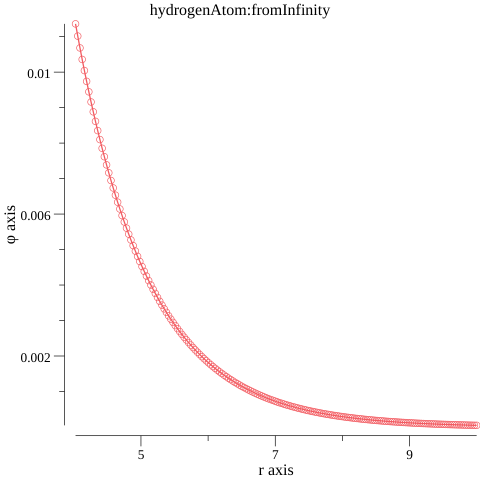
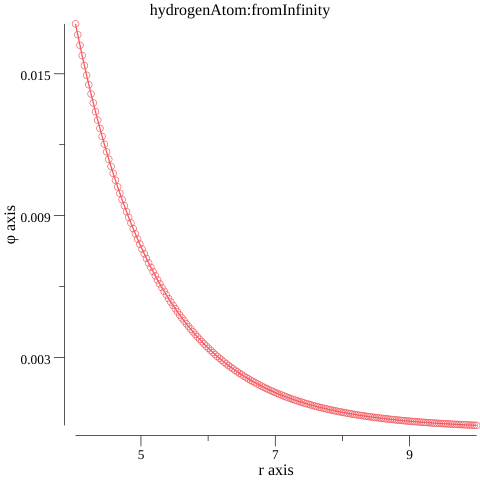
Wronskians

diff --git a/HarmonicOscillator2.go b/HarmonicOscillator2.go
@@ -17,6 +17,11 @@ type EquationInformation struct{
 	InfinityEquation func(x float64, p float64) float64
 	InfinityDifferentalEquation func(x float64, p float64) float64
 }
+type Wronskian struct {
+	targetY, targetdY, targetYfromInfinity, targetdYfromInfinity float64
+}
+
+type Wronskians []Wronskian
 
 func main() {
 	targetEquation := EquationInformation{
@@ -35,6 +40,28 @@ func main() {
 	fmt.Printf("%+v\n", targetEquation)
 	targetEquation.SecondOrderRungeKuttaMethod(1, true, true)
 	targetEquation.SecondOrderRungeKuttaMethod(1, false, true)
+
+	var p = []float64{0.8, 0.9}
+	var wronskians Wronskians
+	for i := 0; i < 30; i++ {
+		targetEquation.SetInitialValues(p[i])
+		wronskian := Wronskian{}
+		wronskian.targetY, wronskian.targetdY = targetEquation.SecondOrderRungeKuttaMethod(p[i], true, false)
+		wronskian.targetYfromInfinity, wronskian.targetdYfromInfinity = targetEquation.SecondOrderRungeKuttaMethod(p[i], false, false)
+		wronskians = append(wronskians, wronskian)
+		if i == 0 { continue }
+		beforeWronskian := wronskians[i - 1].Determinant()
+		currentWronskian := wronskians[i].Determinant()
+		p = append(p, (currentWronskian * p[i] - beforeWronskian * p[i - 1]) / (beforeWronskian - currentWronskian))
+		if ((p[i + 1] - p[i])/p[i]) < math.Pow(10, -5) {
+			targetEquation.SecondOrderRungeKuttaMethod(p[i], true, true)
+			targetEquation.SecondOrderRungeKuttaMethod(p[i], false, true)
+			fmt.Println(p)
+			break
+		}
+	}
+
+
 }
 
 func defineSecondOrderDifferentalEquation(x float64, y float64, dy float64, p float64, l float64) float64 {
@@ -46,8 +73,7 @@ func defineInitialEquation(x float64, l float64) float64 {
 }
 
 func defineInitialDifferntalEquation(x float64, l float64) float64 {
-	return 1 //l = 1
-	//(l + 1) * math.Pow(x, l)
+	return (l + 1) * math.Pow(x, l)
 }
 
 func defineInfinityEquation(x float64, p float64) float64 {
@@ -63,6 +89,10 @@ func (equationInformation *EquationInformation) SetInitialValues(p float64) {
 	equationInformation.InitialdY = equationInformation.InitialDifferentalEquation(equationInformation.InitialX, equationInformation.L)
 	equationInformation.InfinityY = equationInformation.InfinityEquation(equationInformation.InfinityX, p)
 	equationInformation.InfinitydY = equationInformation.InfinityDifferentalEquation(equationInformation.InfinityX, p)
+}
+
+func (wronskian *Wronskian) Determinant() float64 {
+	return wronskian.targetY * wronskian.targetdYfromInfinity - wronskian.targetdY * wronskian.targetYfromInfinity
 }
 
 func (equationInformation *EquationInformation) SecondOrderRungeKuttaMethod(p float64, plus bool, makeGraph bool) (float64, float64) {
